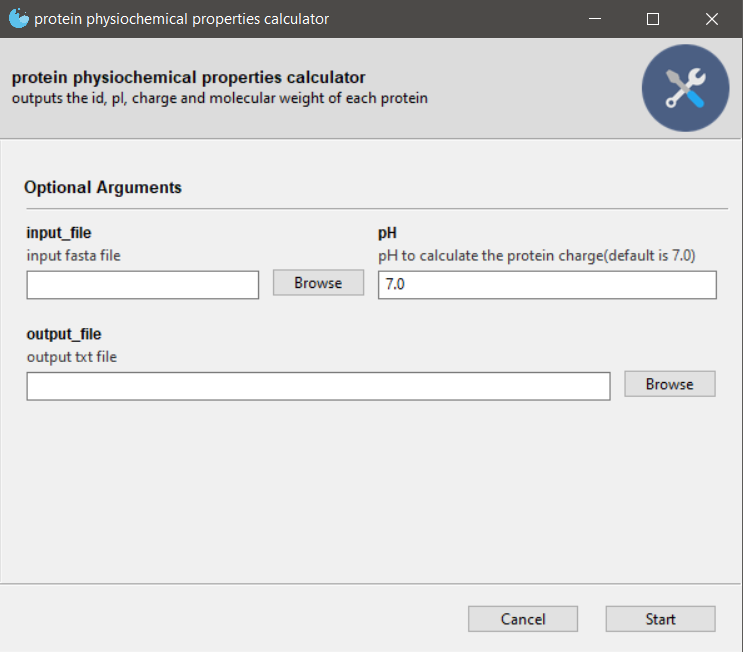
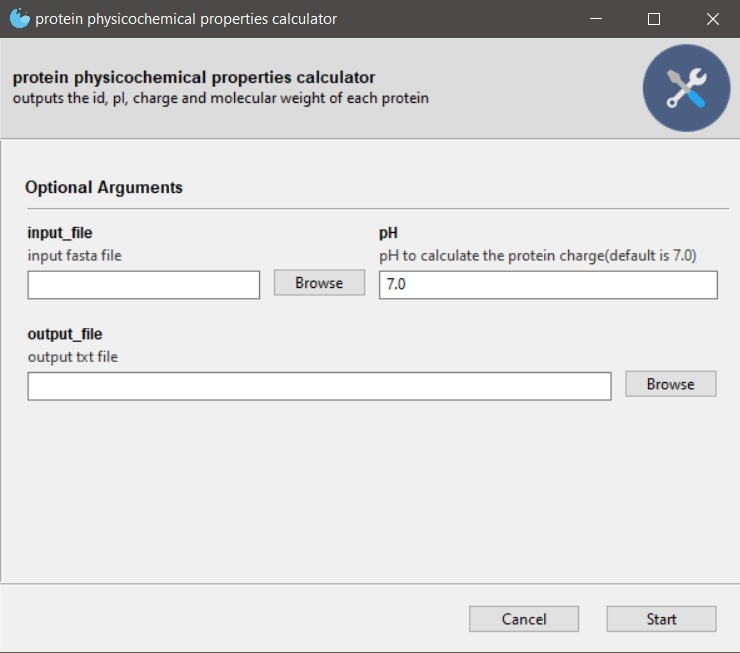
upload files

diff --git a/gui/protein_physicochemical_properties_calculator_gui.py b/gui/protein_physicochemical_properties_calculator_gui.py
@@ -4,7 +4,7 @@ from Bio import SeqIO
 from Bio.SeqUtils.ProtParam import ProteinAnalysis
 import pandas as pd
 # imput parameters
-@Gooey(required_cols=2, program_name='protein physiochemical properties calculator', header_bg_color= '#DCDCDC', terminal_font_color= '#DCDCDC', terminal_panel_color= '#DCDCDC')
+@Gooey(required_cols=2, program_name='protein physicochemical properties calculator', header_bg_color= '#DCDCDC', terminal_font_color= '#DCDCDC', terminal_panel_color= '#DCDCDC')
 def main():
 	ap = GooeyParser(description="outputs the id, pI, charge and molecular weight of each protein")
 	ap.add_argument("-in", "--input_file", required=True, widget='FileChooser', help="input fasta file")
